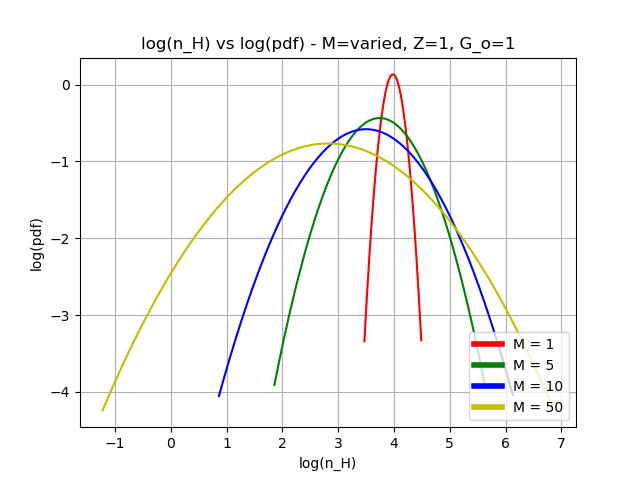
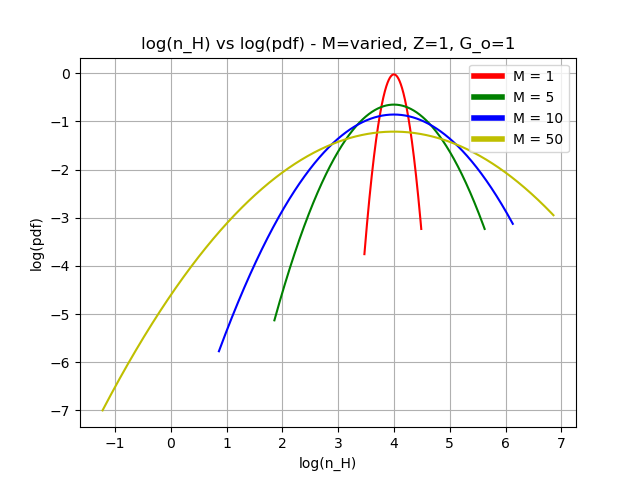
added log(n_H_mean) vs X_CO_bar, added pdf evolution for varying Mach number
Added a file X_CO_bar that incorporates integration and plotting log(n_H_mean) vs X_CO_bar.
Also, corrected the pdf_evolution file by multiplying a factor to the pdf that helped centre the different trends while varying mach numbers.

diff --git a/X_CO_bar.py b/X_CO_bar.py
@@ -7,7 +7,7 @@ def make_pdf(s, s_bar, sigma_s):
     pdf = (1/np.sqrt(2*np.pi*(sigma_s**2))) * (np.exp(-0.5*(((s - s_bar)/sigma_s)**2)))
     return pdf
 
-def make_lambda_jeans(n_H, s):
+def calc_lambda_jeans(n_H):
     m_p = 1.672621777e-24   # g
     T_mean = 10.            #K
     K_b = 1.38064852e-16    # ergs K-1
@@ -15,28 +15,42 @@ def make_lambda_jeans(n_H, s):
     lambda_jeans = ((np.sqrt(K_b * T_mean / m_p)) / np.sqrt(4* np.pi * G * n_H * m_p))
     return lambda_jeans
 
-def make_X_H2(n_H, Z, G_o):
+def calc_n_LW(n_H, G_o, lambda_jeans):
     m_p = 1.672621777e-24   # g
-    T_mean = 10.            #K
-    K_b = 1.38064852e-16    # ergs K-1
-    G = 6.67408e-8          # dyne cm^2 g^-2
     kappa = 1000 * m_p
+    rad_field_outside = G_o #in solar units
+    exp_tau = np.exp(-kappa * n_H * lambda_jeans)
+    n_LW = rad_field_outside * exp_tau
+    return n_LW
+
+def calc_X_H2(n_H, Z, n_LW):
     DC = 1.7e-11
     CC = 2.5e-17            #cm3 s-1
-    rad_field_outside = G_o #in solar units
-    exp_tau = np.exp(-kappa * n_H * ((np.sqrt(K_b * T_mean / m_p)) / np.sqrt(4* np.pi * G * n_H * m_p)))
-    numerator = DC * rad_field_outside * exp_tau
+    numerator = DC * n_LW
     denominator = CC * Z * n_H
     X_H2 = 1 / (2 + (numerator/denominator) )
     return X_H2
 
-def make_integral1():
+def calc_X_CO(n_H, n_H2, n_LW):
+    rate_CHX = 5.e-10 * n_LW
+    rate_CO = 1.e-10 * n_LW
+    x0 = 2.e-4
+    k0 = 5.e-16 #cm3 s-1
+    k1 = 5.e-10 #cm3 s-1
+    factor_beta = rate_CHX/(n_H*k1*x0)
+    beta = 1./(1.+factor_beta)
+    factor_CO = rate_CO/(n_H2*k0*beta)
+    X_CO = 1./(1.+factor_CO)
+    return X_CO
+
+def calc_n_CO(n_H, X_CO):
+    abundance_Ctot = 1e-4 # n_C/n_H as defined by nucleosynthesis
+    return n_H * abundance_Ctot * X_CO # CO/cc
+
+def make_integral2():
     s = np.zeros(1000)
     pdf = np.zeros(1000)
-    lambda_jeans = np.zeros(1000)
-    X_H2 = np.zeros(1000)
-    n_H = np.zeros(1000)
-    integral1 = 0
+    integral2 = 0
     mach_no = 5
     sigma_s = np.sqrt(np.log(1 + ((0.3 * mach_no)**2)))
     s_bar = -0.5*(sigma_s**2)
@@ -48,13 +62,11 @@ def make_integral1():
     G_o = 1
     for i in range(0, 1000):
         s[i] = smin + i*ds
-        n_H = n_H_mean * np.exp(s)
-        lambda_jeans = make_lambda_jeans(n_H, s)
-        X_H2 = make_X_H2(n_H, Z, G_o)
         pdf = make_pdf(s, s_bar, sigma_s)
-        integral1 += np.exp(s[i]) * pdf[i] * ds   #this should be ~1
+        integral2 += np.exp(s[i]) * pdf[i] * ds   #this should be ~1
     #plotting(n_H, pdf, lambda_jeans, X_H2)
-    return integral1
+    return integral2
+
 
 def varying_M():
     fig, ax = plt.subplots()
@@ -84,21 +96,29 @@ def varying_M():
             lambda_jeans = np.zeros(1000)
             X_H2 = np.zeros(1000)
             n_H = np.zeros(1000)
-            integral1 = 0
-            X_H2_bar = np.zeros(1000)
+            n_LW = np.zeros(1000)
+            n_H2 = np.zeros(1000)
+            X_CO = np.zeros(1000)
+            n_CO = np.zeros(1000)
+            integral2 = 0
+            X_CO_bar = np.zeros(1000)
             for i in range(0, 1000):
                 s[i] = smin + i*ds
                 n_H[i] = n_H_mean * np.exp(s[i])
-                lambda_jeans[i] = make_lambda_jeans(n_H[i], s[i])
-                X_H2[i] = make_X_H2(n_H[i], Z, G_o)
+                lambda_jeans[i] = calc_lambda_jeans(n_H[i])
+                n_LW[i] = calc_n_LW(n_H[i], G_o, lambda_jeans[i])
+                X_H2[i] = calc_X_H2(n_H[i], Z, n_LW[i])
                 pdf[i] = make_pdf(s[i], s_bar, sigma_s)
-            integral1 = make_integral1()
-            X_H2_bar = integral1 * X_H2
-            plt.scatter(np.log10(n_H_mean), X_H2_bar[i], color=color)
+                n_H2[i] = n_H[i] * X_H2[i]
+                X_CO[i] = calc_X_CO(n_H[i], n_H2[i], n_LW[i])
+                n_CO[i] = calc_n_CO(n_H[i], X_CO[i])
+            integral2 = make_integral2()
+            X_CO_bar = integral2 * X_CO
+            plt.scatter(np.log10(n_H_mean), X_CO_bar[i], color=color)
     plt.xlabel('log(n_H_mean)')
-    plt.ylabel('X_H2_bar')
+    plt.ylabel('X_CO_bar')
     plt.grid(b=True, which='both', axis='both')
-    plt.title('log(n_H_mean) vs X_H2_bar - M=varied, Z=1, G_o=1')
+    plt.title('log(n_H_mean) vs X_CO_bar - M=varied, Z=1, G_o=1')
     ax.legend(  custom_lines,
                 [   label + '= 1',
                     label + '= 5',
@@ -106,9 +126,9 @@ def varying_M():
                     label + '= 50'  ],
                 loc = 'lower right'
                     )
-    plt.savefig(os.path.join('log(n_H_mean)vsX_H2_bar--M.png'.format()))
+    plt.savefig(os.path.join('log(n_H_mean)vsX_CO_bar--M.png'.format()))
     plt.clf()
-    return s, smin, smax, sigma_s, n_H, lambda_jeans, X_H2, pdf, integral1, X_H2_bar
+    return s, smin, smax, sigma_s, n_H, lambda_jeans, X_H2, pdf, n_H2, integral2, X_CO, n_CO, X_CO_bar
 
 def varying_Z():
     fig, ax = plt.subplots()
@@ -138,21 +158,29 @@ def varying_Z():
             lambda_jeans = np.zeros(1000)
             X_H2 = np.zeros(1000)
             n_H = np.zeros(1000)
-            integral1 = 0
-            X_H2_bar = np.zeros(1000)
+            n_LW = np.zeros(1000)
+            n_H2 = np.zeros(1000)
+            X_CO = np.zeros(1000)
+            n_CO = np.zeros(1000)
+            integral2 = 0
+            X_CO_bar = np.zeros(1000)
             for i in range(0, 1000):
                 s[i] = smin + i*ds
                 n_H[i] = n_H_mean * np.exp(s[i])
-                lambda_jeans[i] = make_lambda_jeans(n_H[i], s[i])
-                X_H2[i] = make_X_H2(n_H[i], Z, G_o)
+                lambda_jeans[i] = calc_lambda_jeans(n_H[i])
+                n_LW[i] = calc_n_LW(n_H[i], G_o, lambda_jeans[i])
+                X_H2[i] = calc_X_H2(n_H[i], Z, n_LW[i])
                 pdf[i] = make_pdf(s[i], s_bar, sigma_s)
-            integral1 = make_integral1()
-            X_H2_bar = integral1 * X_H2
-            plt.scatter(np.log10(n_H_mean), X_H2_bar[i], color=color)
+                n_H2[i] = n_H[i] * X_H2[i]
+                X_CO[i] = calc_X_CO(n_H[i], n_H2[i], n_LW[i])
+                n_CO[i] = calc_n_CO(n_H[i], X_CO[i])
+            integral2 = make_integral2()
+            X_CO_bar = integral2 * X_CO
+            plt.scatter(np.log10(n_H_mean), X_CO_bar[i], color=color)
     plt.xlabel('log(n_H_mean)')
-    plt.ylabel('X_H2_bar')
+    plt.ylabel('X_CO_bar')
     plt.grid(b=True, which='both', axis='both')
-    plt.title('log(n_H_mean) vs X_H2_bar - M=5, Z=varied, G_o=1')
+    plt.title('log(n_H_mean) vs X_CO_bar - M=5, Z=varied, G_o=1')
     ax.legend(  custom_lines,
                 [   label + '= 0.001',
                     label + '= 0.010',
@@ -160,9 +188,9 @@ def varying_Z():
                     label + '= 1.000'  ],
                 loc = 'lower right'
                     )
-    plt.savefig(os.path.join('log(n_H_mean)vsX_H2_bar--Z.png'.format()))
+    plt.savefig(os.path.join('log(n_H_mean)vsX_CO_bar--Z.png'.format()))
     plt.clf()
-    return s, smin, smax, sigma_s, n_H, lambda_jeans, X_H2, pdf, integral1, X_H2_bar
+    return s, smin, smax, sigma_s, n_H, lambda_jeans, X_H2, pdf, n_H2, integral2, X_CO, n_CO, X_CO_bar
 
 def varying_G_o():
     fig, ax = plt.subplots()
@@ -192,21 +220,29 @@ def varying_G_o():
             lambda_jeans = np.zeros(1000)
             X_H2 = np.zeros(1000)
             n_H = np.zeros(1000)
-            integral1 = 0
-            X_H2_bar = np.zeros(1000)
+            n_LW = np.zeros(1000)
+            n_H2 = np.zeros(1000)
+            X_CO = np.zeros(1000)
+            n_CO = np.zeros(1000)
+            integral2 = 0
+            X_CO_bar = np.zeros(1000)
             for i in range(0, 1000):
                 s[i] = smin + i*ds
                 n_H[i] = n_H_mean * np.exp(s[i])
-                lambda_jeans[i] = make_lambda_jeans(n_H[i], s[i])
-                X_H2[i] = make_X_H2(n_H[i], Z, G_o)
+                lambda_jeans[i] = calc_lambda_jeans(n_H[i])
+                n_LW[i] = calc_n_LW(n_H[i], G_o, lambda_jeans[i])
+                X_H2[i] = calc_X_H2(n_H[i], Z, n_LW[i])
                 pdf[i] = make_pdf(s[i], s_bar, sigma_s)
-            integral1 = make_integral1()
-            X_H2_bar = integral1 * X_H2
-            plt.scatter(np.log10(n_H_mean), X_H2_bar[i], color=color)
+                n_H2[i] = n_H[i] * X_H2[i]
+                X_CO[i] = calc_X_CO(n_H[i], n_H2[i], n_LW[i])
+                n_CO[i] = calc_n_CO(n_H[i], X_CO[i])
+            integral2 = make_integral2()
+            X_CO_bar = integral2 * X_CO
+            plt.scatter(np.log10(n_H_mean), X_CO_bar[i], color=color)
     plt.xlabel('log(n_H_mean)')
-    plt.ylabel('X_H2_bar')
+    plt.ylabel('X_CO_bar')
     plt.grid(b=True, which='both', axis='both')
-    plt.title('log(n_H_mean) vs X_H2_bar - M=5, Z=1, G_o=varied')
+    plt.title('log(n_H_mean) vs X_CO_bar - M=5, Z=1, G_o=varied')
     ax.legend(  custom_lines,
                 [   label + '= 1',
                     label + '= 10',
@@ -214,17 +250,17 @@ def varying_G_o():
                     label + '= 100'  ],
                 loc = 'lower right'
                     )
-    plt.savefig(os.path.join('log(n_H_mean)vsX_H2_bar--G_o.png'.format()))
+    plt.savefig(os.path.join('log(n_H_mean)vsX_CO_bar--G_o.png'.format()))
     plt.clf()
-    return s, smin, smax, sigma_s, n_H, lambda_jeans, X_H2, pdf, integral1, X_H2_bar
+    return s, smin, smax, sigma_s, n_H, lambda_jeans, X_H2, pdf, n_H2, integral2, X_CO, n_CO, X_CO_bar
 
 if __name__=='__main__':
-    path = 'for X_H2_bar'
+    path = 'for X_CO_bar'
     os.makedirs(path, exist_ok=True)
     os.chdir(path)
 
     # order of variables:
-    # s, smin, smax, sigma_s, n_H, lambda_jeans, X_H2, pdf, integral1, X_H2_bar
-    g1, g2, g3, g4, g5, g6, g7, g8, g9, g10 = varying_G_o()  #varying G_o
-    m1, m2, m3, m4, m5, m6, m7, m8, m9, m10 = varying_M()  #varying mach_no
-    z1, z2, z3, z4, z5, z6, z7, z8, z9, z10 = varying_Z()  #varying metallicity
+    # s, smin, smax, sigma_s, n_H, lambda_jeans, X_H2, pdf, n_H2, integral2, X_CO, n_CO, X_CO_bar
+    g1, g2, g3, g4, g5, g6, g7, g8, g9, g10, g11, g12, g13 = varying_G_o()  #varying G_o
+    m1, m2, m3, m4, m5, m6, m7, m8, m9, m10, m11, m12, m13 = varying_M()  #varying mach_no
+    z1, z2, z3, z4, z5, z6, z7, z8, z9, z10, z11, z12, z13 = varying_Z()  #varying metallicity

diff --git a/pdf_evolution.py b/pdf_evolution.py
@@ -4,7 +4,7 @@ import os
 from matplotlib.lines import Line2D
 
 def make_pdf(s, s_bar, sigma_s):
-    pdf = (1/np.sqrt(2*np.pi*(sigma_s**2))) * (np.exp(-0.5*(((s - s_bar)/sigma_s)**2)))
+    pdf = (1/np.sqrt(2*np.pi*(sigma_s**2))) * (np.exp(-0.5*(((s - s_bar)/sigma_s)**2))) * ((np.exp(s))**0.5)
     return pdf
 
 def get_evolution():
@@ -35,19 +35,19 @@ def get_evolution():
             s[i] = smin + i*ds
         n_H = n_H_mean * np.exp(s)
         pdf = make_pdf(s, s_bar, sigma_s)
-        plt.plot(np.log10(n_H), np.log10(pdf), color=color)
+        plt.plot(np.log10(n_H), pdf, color=color)
     plt.xlabel('log(n_H)')
-    plt.ylabel('log(pdf)')
+    plt.ylabel('pdf')
     plt.grid(b=True, which='both', axis='both')
-    plt.title('log(n_H) vs log(pdf) - M=varied, Z=1, G_o=1')
+    plt.title('log(n_H) vs pdf - M=varied, Z=1, G_o=1')
     ax.legend(  custom_lines,
                 [   label + '= 1',
                     label + '= 5',
                     label + '= 10',
                     label + '= 50'  ],
-                loc = 'lower right'
+                loc = 'upper right'
                     )
-    plt.savefig(os.path.join('log(n_H)vslog(pdf)--M.png'.format()))
+    plt.savefig(os.path.join('log(n_H)vspdf--M.png'.format()))
     plt.clf()
     return s, smin, smax, sigma_s, n_H, pdf
 
@@ -58,9 +58,9 @@ if __name__=='__main__':
 
     # order of variables:
     # s, smin, smax, sigma_s, n_H, pdf
-    m1, m2, m3, m4, m5, m6 = get_evolution()  #varying mach_no
+    m1, m2, m3, m4, m5, m6 = get_evolution()  #varying mach_no'''
 
-'''
+
 import numpy as np
 import matplotlib.pyplot as plt
 import os
@@ -85,9 +85,9 @@ def get_evolution():
         color = str(color_arr[r])
         sigma_s = np.sqrt(np.log(1 + ((0.3 * mach_no)**2)))
         s_bar = -0.5*(sigma_s**2)
-        s_tail = 0.2 * s_bar * (ratio**(-2))
-        smin = -4*sigma_s + s_bar - s_tail
-        smax = 4*sigma_s + s_bar + s_tail
+        s_tail = np.abs(0.2 * s_bar * (ratio**(-2)))
+        smin = -4*sigma_s + s_bar
+        smax = 4*sigma_s + s_bar
         ds = (smax - smin)/1000
         value = mach_no
         n_H_mean = 1e4
@@ -98,7 +98,7 @@ def get_evolution():
         n_H = np.zeros(1000)
         for i in range(0, 1000):
             s[i] = smin + i*ds
-        n_H = n_H_mean * np.exp(s)
+        n_H = n_H_mean * np.exp(s) * s_tail
         pdf = make_pdf(s, s_bar, sigma_s)
         plt.plot(np.log10(n_H), pdf, color=color)
     plt.xlabel('log(n_H)')
